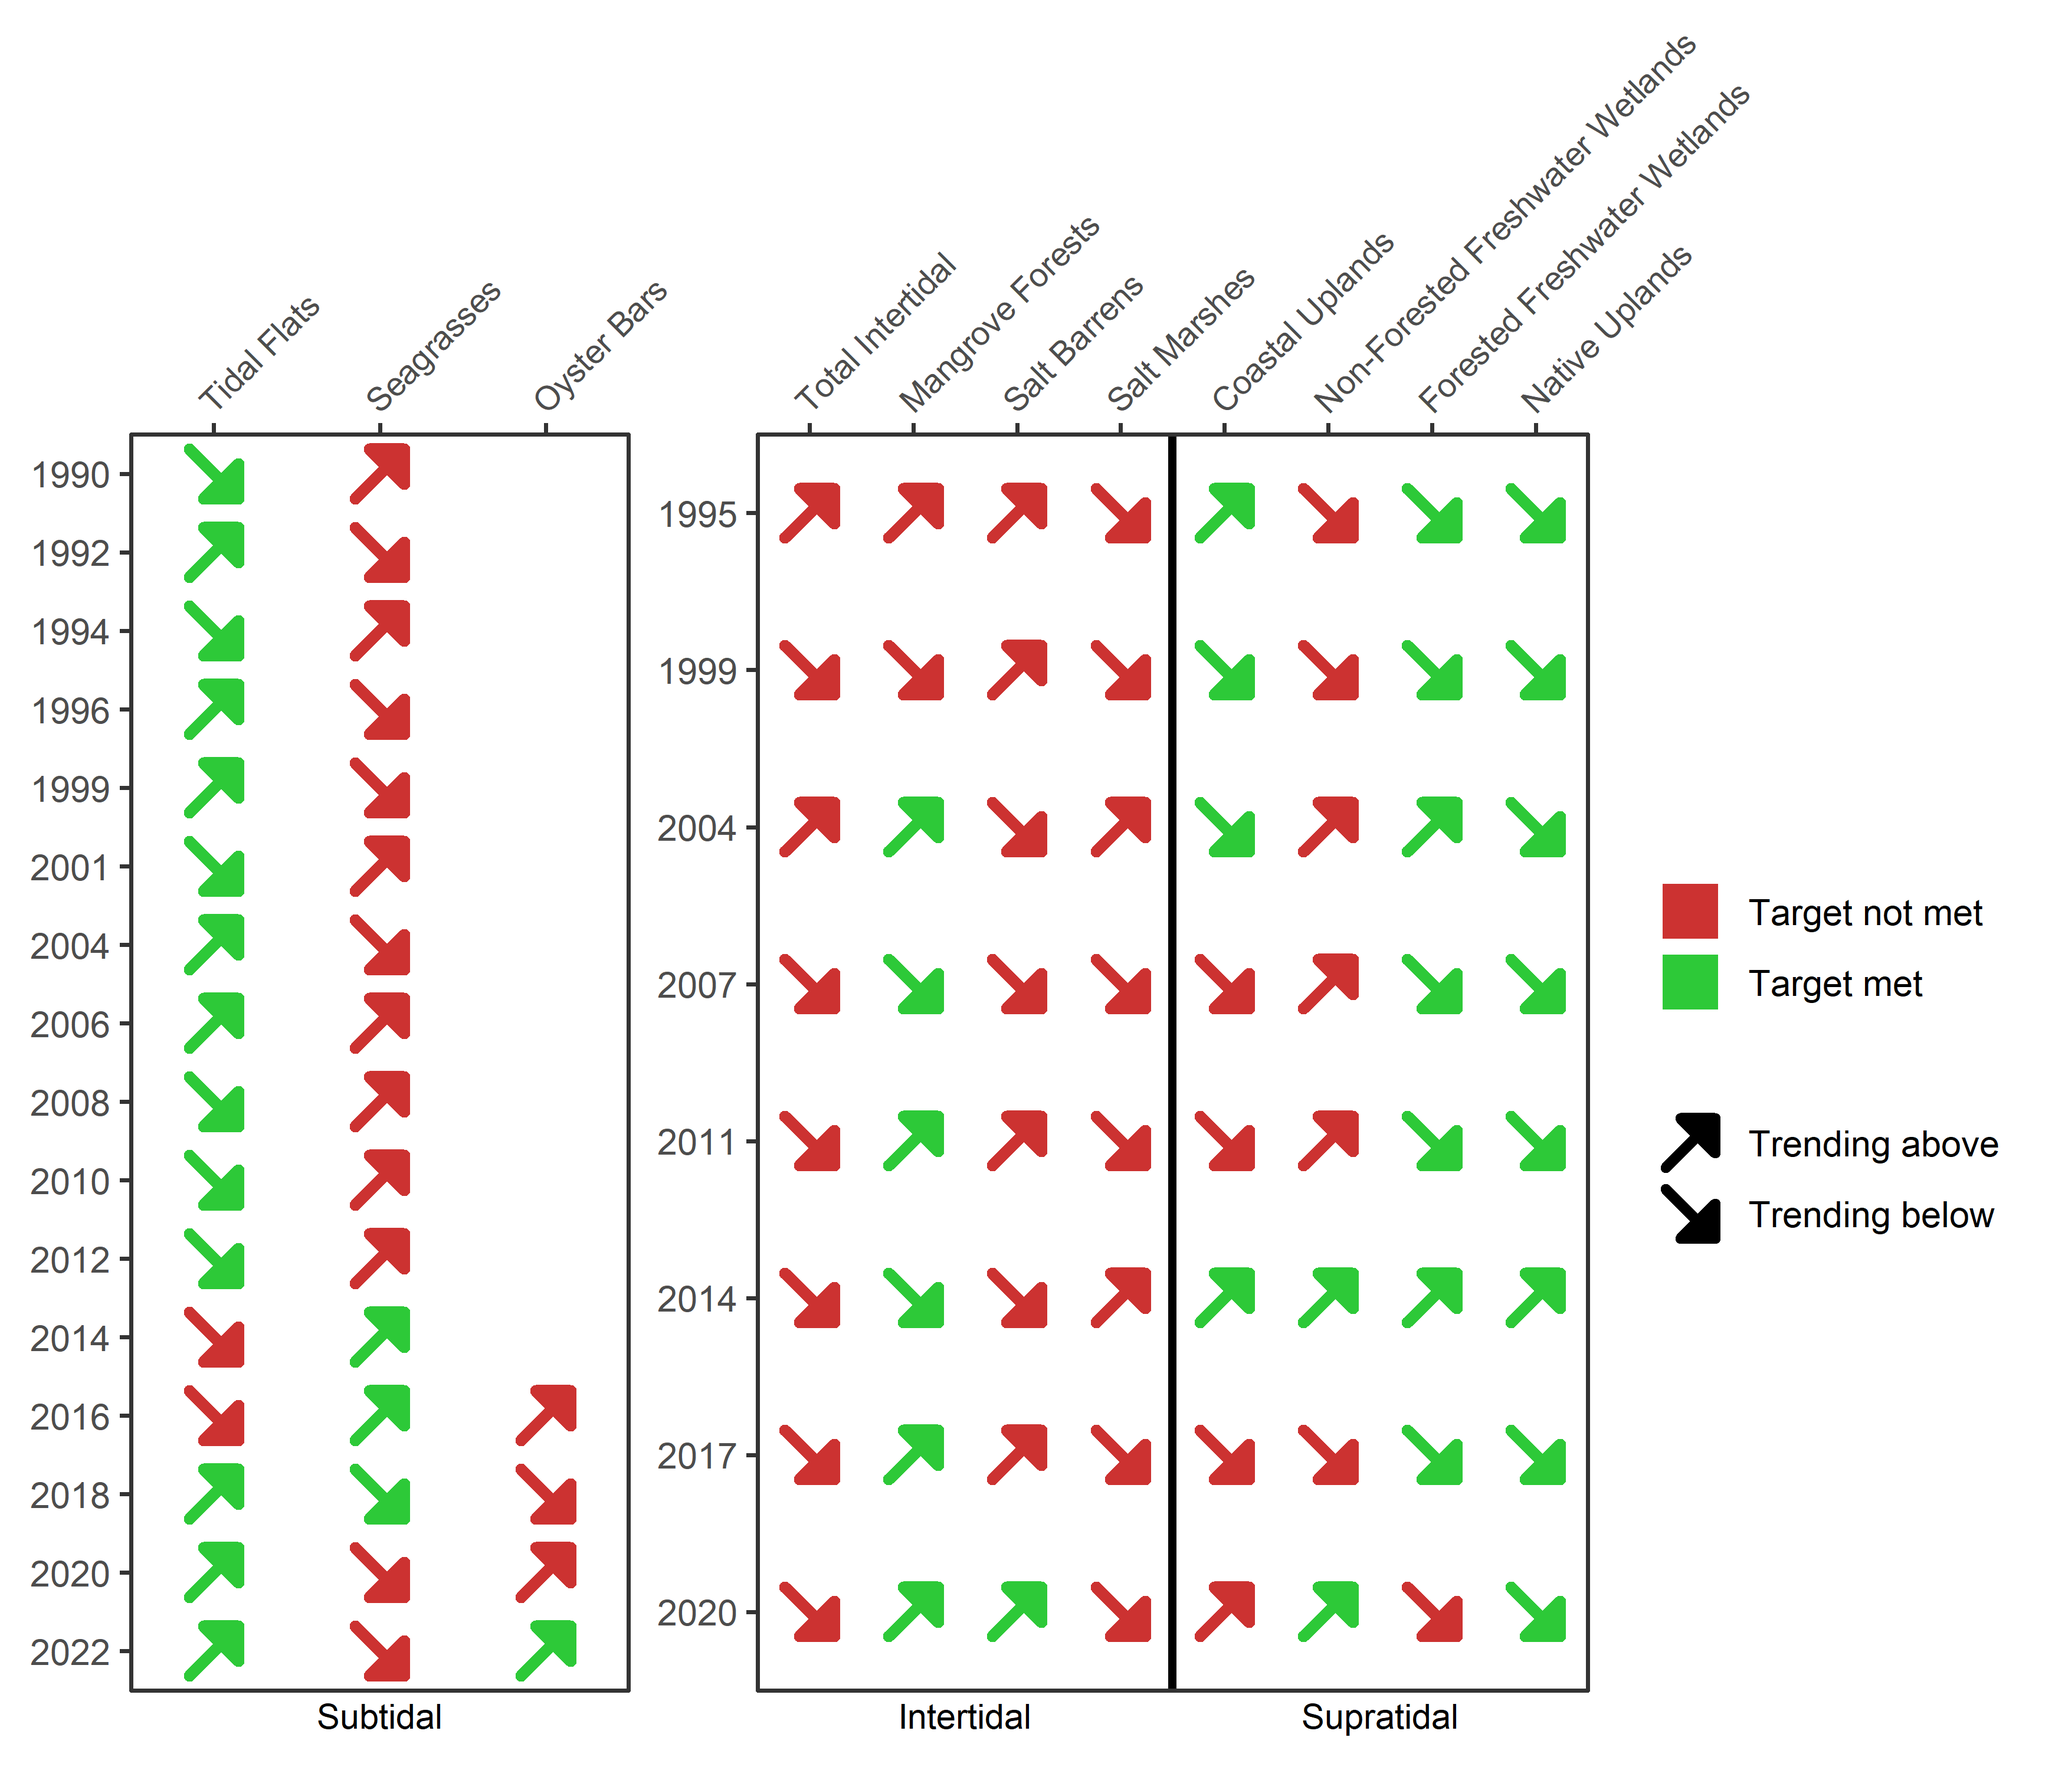
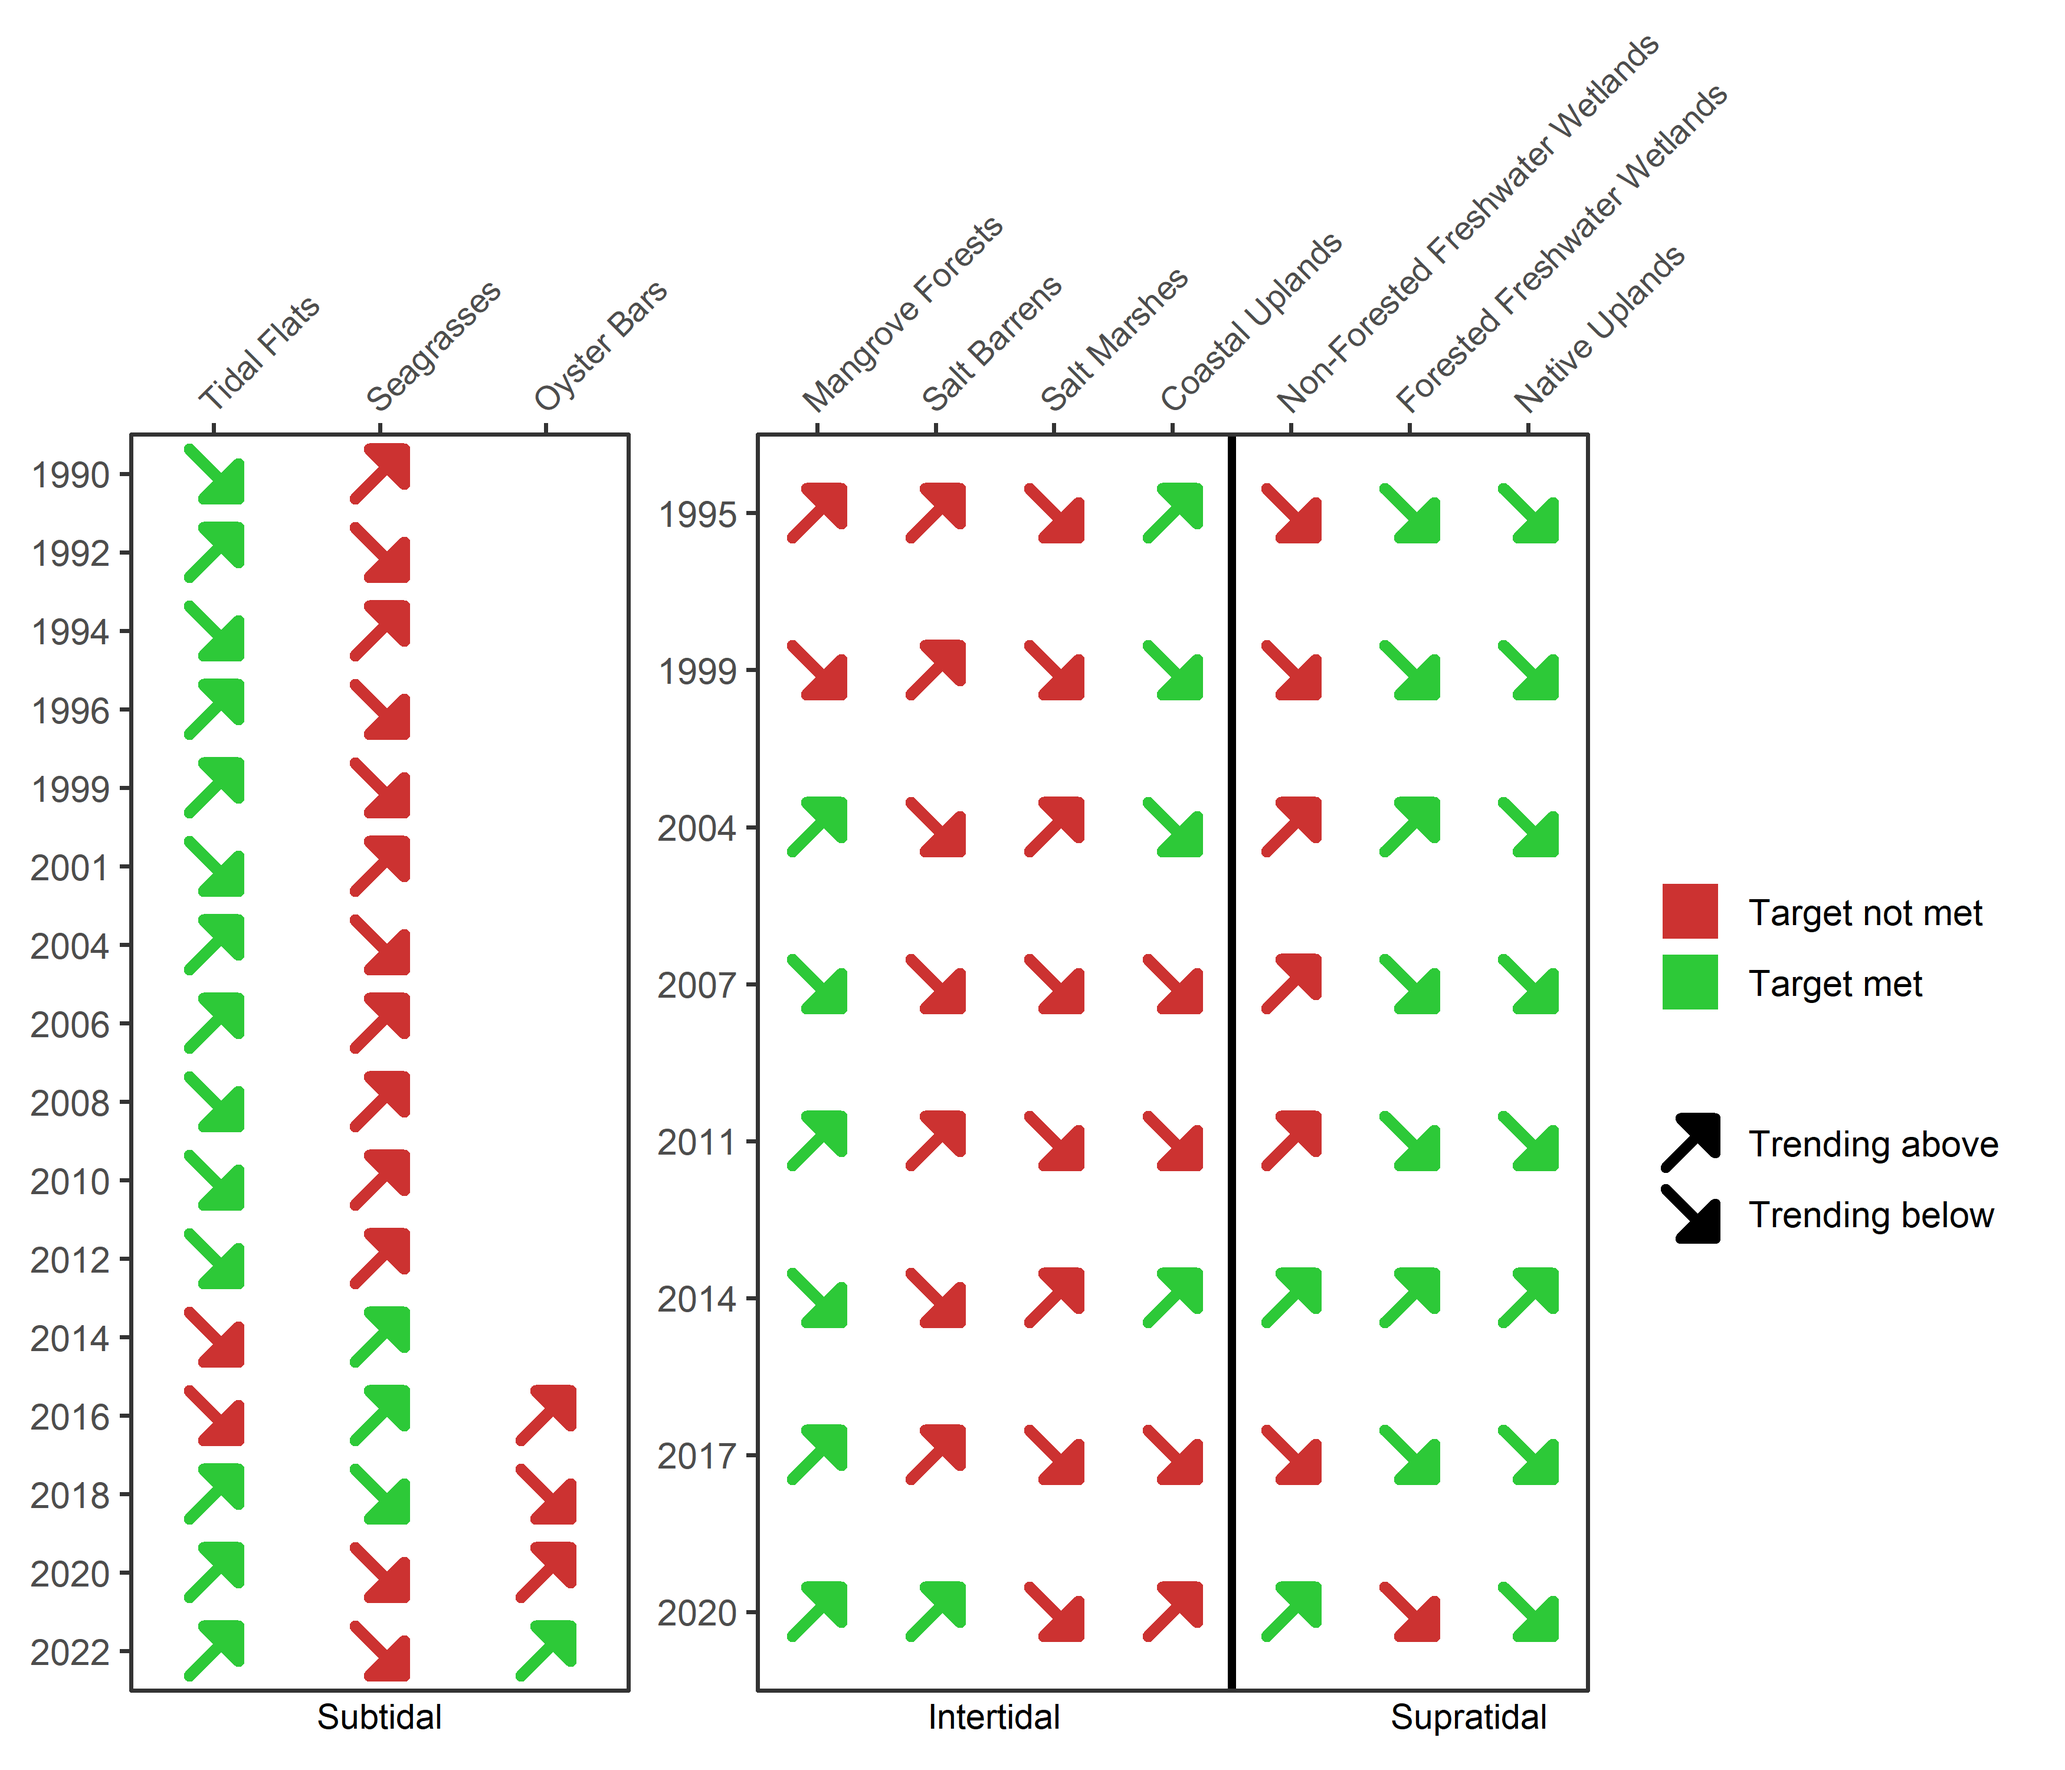
remove total intertidal from report card and progress table

diff --git a/docs/summaries.html b/docs/summaries.html
@@ -256,7 +256,7 @@ Note
 <div class="cell-output-display">
 <div>
 <figure class="figure">
-<p><a href="tabs/target_table_simple.png" class="lightbox" data-gallery="quarto-lightbox-gallery-12"><img src="tabs/target_table_simple.png" class="img-fluid figure-img" style="width:70.0%"></a></p>
+<p><a href="tabs/target_table_simple_no_total_intertidal.png" class="lightbox" data-gallery="quarto-lightbox-gallery-12"><img src="tabs/target_table_simple_no_total_intertidal.png" class="img-fluid figure-img" style="width:70.0%"></a></p>
 </figure>
 </div>
 </div>
@@ -701,7 +701,7 @@ window.document.addEventListener("DOMContentLoaded", function (event) {
 });
 </script>
 </div> <!-- /content -->
-<script>var lightboxQuarto = GLightbox({"loop":false,"closeEffect":"zoom","descPosition":"bottom","openEffect":"zoom","selector":".lightbox"});
+<script>var lightboxQuarto = GLightbox({"closeEffect":"zoom","loop":false,"selector":".lightbox","openEffect":"zoom","descPosition":"bottom"});
 window.onload = () => {
   lightboxQuarto.on('slide_before_load', (data) => {
     const { slideIndex, slideNode, slideConfig, player, trigger } = data;
